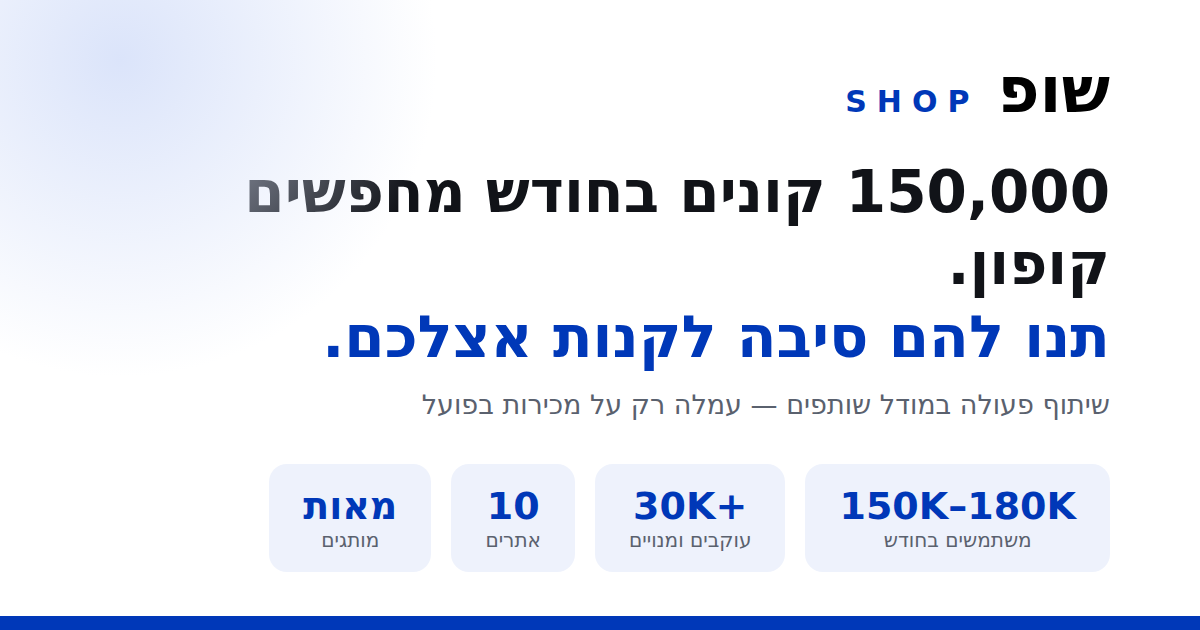
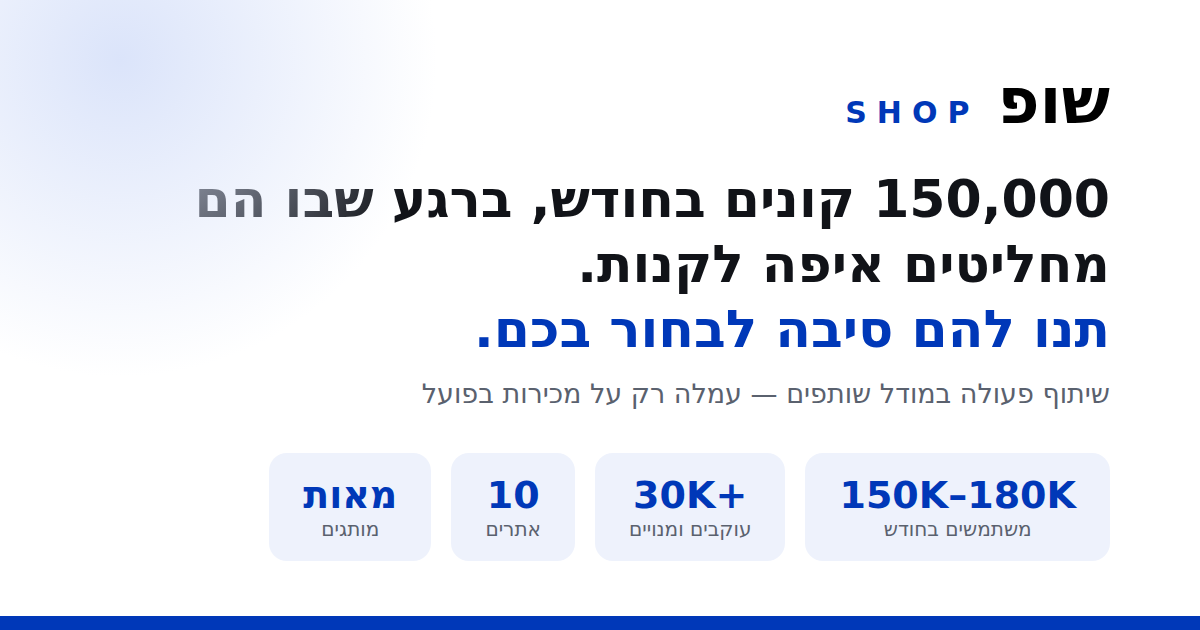
Update landing page copy: broader positioning and new-customer angle
Reword hero headline and subtitle, reposition the network as consumer
communities for smart shopping (not only coupons), rename the sites
card, and rewrite two benefit cards to emphasize reaching new customers
via generic searches and social hashtags. Regenerate OG image with the
new headline and align meta description, JSON-LD and logo alt text.

Claude-Session: https://claude.ai/code/session_018Z9xBjUVc7FvhcnaRX3ysu

diff --git a/index.html b/index.html
@@ -5,7 +5,7 @@
   <meta name="viewport" content="width=device-width, initial-scale=1.0">
 
   <title>שיתוף פעולה עם שופ SHOP | תוכנית שותפים לעסקים ומותגים</title>
-  <meta name="description" content="רשת שופ SHOP — 10 אתרי קופונים ודילים, תוסף כרום ו־6 ערוצי סושיאל עם 150–180 אלף משתמשים בחודש. שיווק שותפים מבוסס ביצועים: עמלה רק על מכירות בפועל.">
+  <meta name="description" content="רשת שופ SHOP — 10 אתרים ופלטפורמות צרכניות, תוסף כרום ו־6 ערוצי סושיאל עם 150–180 אלף משתמשים בחודש. שיווק שותפים מבוסס ביצועים: עמלה רק על מכירות בפועל.">
 
   <!-- TODO: להחליף את כתובת ה-canonical וה-og:url לדומיין הסופי לאחר הפריסה -->
   <link rel="canonical" href="https://shopxisrael.github.io/business/">
@@ -45,7 +45,7 @@
     "url": "https://shopxisrael.github.io/business/",
     "logo": "https://shopxisrael.github.io/business/assets/logo.png",
     "email": "shopxisrael@gmail.com",
-    "description": "רשת אתרי קופונים, דילים והטבות מהמובילות בישראל: 10 אתרים, תוסף כרום ו־6 ערוצי סושיאל.",
+    "description": "רשת אתרים וקהילות צרכניות לקנייה חכמה — מבצעים, הטבות, דילים וקופונים — מהמובילות בישראל: 10 אתרים, תוסף כרום ו־6 ערוצי סושיאל.",
     "sameAs": [
       "https://www.facebook.com/groups/1216591046179176",
       "https://whatsapp.com/channel/0029VaFrpcbFcow7F6hvvp2G",
@@ -144,7 +144,7 @@
 
   <header class="site-header">
     <div class="container header-inner">
-      <img src="assets/logo.png" alt="שופ SHOP — רשת אתרי קופונים ודילים" class="header-logo" width="120" height="60">
+      <img src="assets/logo.png" alt="שופ SHOP — רשת אתרים וקהילות צרכניות לקנייה חכמה" class="header-logo" width="120" height="60">
       <a href="#contact" class="btn btn-primary btn-sm">בואו נדבר</a>
     </div>
   </header>
@@ -154,9 +154,9 @@
     <!-- 1. Hero -->
     <section class="hero" id="top">
       <div class="container">
-        <h1 class="hero-title">150,000 קונים בחודש מחפשים קופון.<br><span class="accent">תנו להם סיבה לקנות אצלכם.</span></h1>
+        <h1 class="hero-title">150,000 קונים בחודש, ברגע שבו הם מחליטים איפה לקנות.<br><span class="accent">תנו להם סיבה לבחור בכם.</span></h1>
         <p class="hero-sub">
-          שופ SHOP היא רשת אתרי קופונים, דילים והטבות מהמובילות בישראל.
+          שופ SHOP היא רשת אתרים וקהילות צרכניות לקנייה חכמה — מבצעים, הטבות, דילים וקופונים — מהמובילות בישראל.
           אנחנו מקדמים את המותג שלכם ב־10 אתרים, בתוסף כרום ובערוצי הסושיאל שלנו —
           ואתם משלמים עמלה רק כשיש מכירה בפועל.
         </p>
@@ -220,12 +220,16 @@
       <div class="container">
         <h2 class="section-title">מי אנחנו: רשת שופ SHOP</h2>
         <p class="section-lead">
-          רשת אתרים, תוסף וקהילות שכולם עושים דבר אחד: מחברים בין קונים שמחפשים הטבה
-          לבין מותגים שרוצים למכור. קידום מותגים אונליין בכל נקודות המגע עם הקונה.
+          רשת אתרים וקהילות צרכניות לקנייה חכמה — מבצעים, הטבות, דילים וקופונים — מהמובילות בישראל.
+          אנחנו מחברים בין קונים שמחפשים לקנות חכם לבין מותגים שרוצים למכור, בכל נקודות המגע עם הקונה.
         </p>
         <div class="cards-grid about-grid">
           <article class="card reveal">
-            <h3 class="card-title">10 אתרי קופונים ודילים</h3>
+            <h3 class="card-title">10 אתרים ופלטפורמות צרכניות</h3>
+            <p>
+              כל אחד מהם קהילה בפני עצמה של קונים שמחפשים לקנות חכם —
+              לא רק קופון, גם השוואות, המלצות ועדכוני מבצעים.
+            </p>
             <p>
               <a href="https://couponcode.co.il/" target="_blank" rel="noopener">קוד קופון</a> ·
               <a href="https://shopx.co.il/" target="_blank" rel="noopener">שופ</a> ·
@@ -268,7 +272,7 @@
           </div>
           <div class="stat reveal">
             <span class="stat-number"><span class="counter" data-start="0" data-target="10">10</span></span>
-            <span class="stat-label">אתרי קופונים, דילים והטבות</span>
+            <span class="stat-label">אתרים ופלטפורמות צרכניות</span>
           </div>
           <div class="stat reveal">
             <span class="stat-number">מאות</span>
@@ -322,16 +326,16 @@
             <p>שיווק מבוסס ביצועים במלוא מובן המילה: אין מכירה — אין תשלום. 0 עלות הקמה, 0 דמי מנוי, בלי התחייבות חודשית.</p>
           </article>
           <article class="card reveal">
-            <h3 class="card-title">קהל בשיא כוונת הקנייה</h3>
-            <p>מי שמחפש קופון כבר נמצא בעגלה, רגע לפני תשלום. אלה הלידים הכי חמים שיש — לא צריך לשכנע אותם לקנות, רק לתת סיבה לקנות אצלכם.</p>
+            <h3 class="card-title">לקוחות חדשים, לא רק לקוחות קיימים</h3>
+            <p>חלק גדול מהקונים שמגיעים דרך הרשת משווים באותו רגע בין כמה אפשרויות לאותו מוצר — לא בהכרח מכירים אתכם מראש. דיל שמופיע במקום הנכון ברגע הנכון הוא לרוב מה שמכריע לטובתכם ולא לטובת המתחרה. ואתם משלמים רק כשההמרה קורית בפועל — כלומר על עסקאות שבלעדינו כנראה לא היו קורות.</p>
           </article>
           <article class="card reveal">
             <h3 class="card-title">חשיפה רב־ערוצית במקביל</h3>
             <p>המותג שלכם מופיע בבת אחת ב־10 אתרים, בתוסף כרום וב־6 ערוצי סושיאל. נקודות מגע מרובות עם אותו קונה מגדילות את הסיכוי להמרה.</p>
           </article>
           <article class="card reveal">
-            <h3 class="card-title">נוכחות בתוצאות החיפוש</h3>
-            <p>כשלקוח מחפש בגוגל "קופון + שם המותג שלכם" — הוא פוגש אתכם דרכנו, ולא נודד למתחרים. אתם שולטים במסע במקום לאבד אותו ברגע האחרון.</p>
+            <h3 class="card-title">מגיעים אליכם גם קונים שלא הכירו אתכם</h3>
+            <p>רוב החיפושים הם כלליים — "קופון אופנה", "דיל ליופי" — ולא על שם המותג שלכם, כך שאתם נחשפים לקהל חדש שלא היה מגיע אליכם בכלל. ואם מישהו כבר מחפש דווקא אתכם, אתם רוצים להופיע גם דרכנו ולא לאבד אותו לאתר מתחרה. אותו עיקרון גם בסושיאל, דרך תגיות כמו #קופון שמרחיבות את החשיפה שלכם.</p>
           </article>
           <article class="card reveal">
             <h3 class="card-title">הצלת עגלות נטושות</h3>
